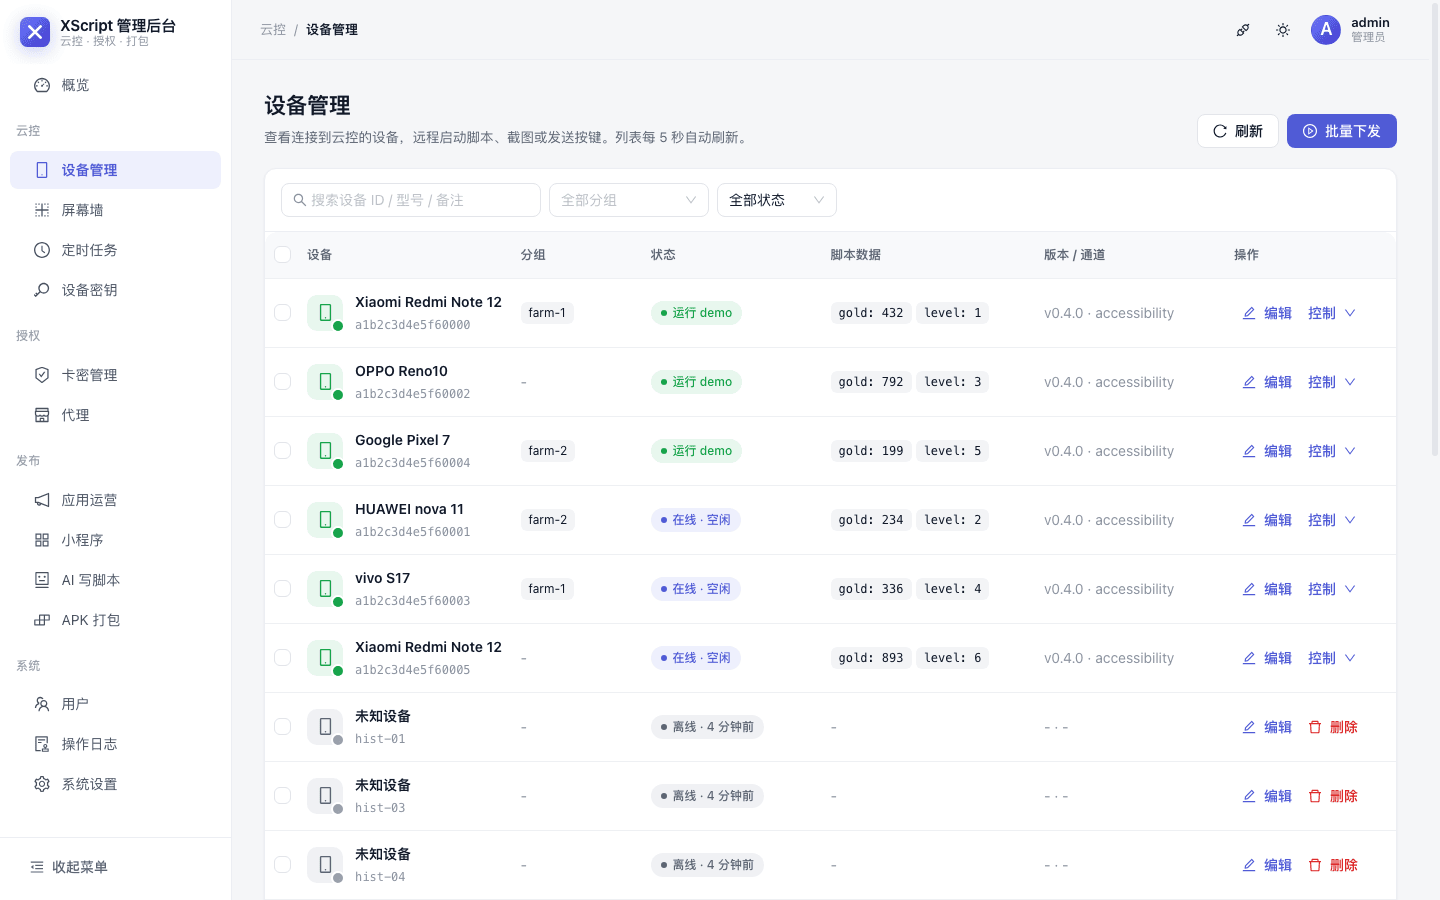
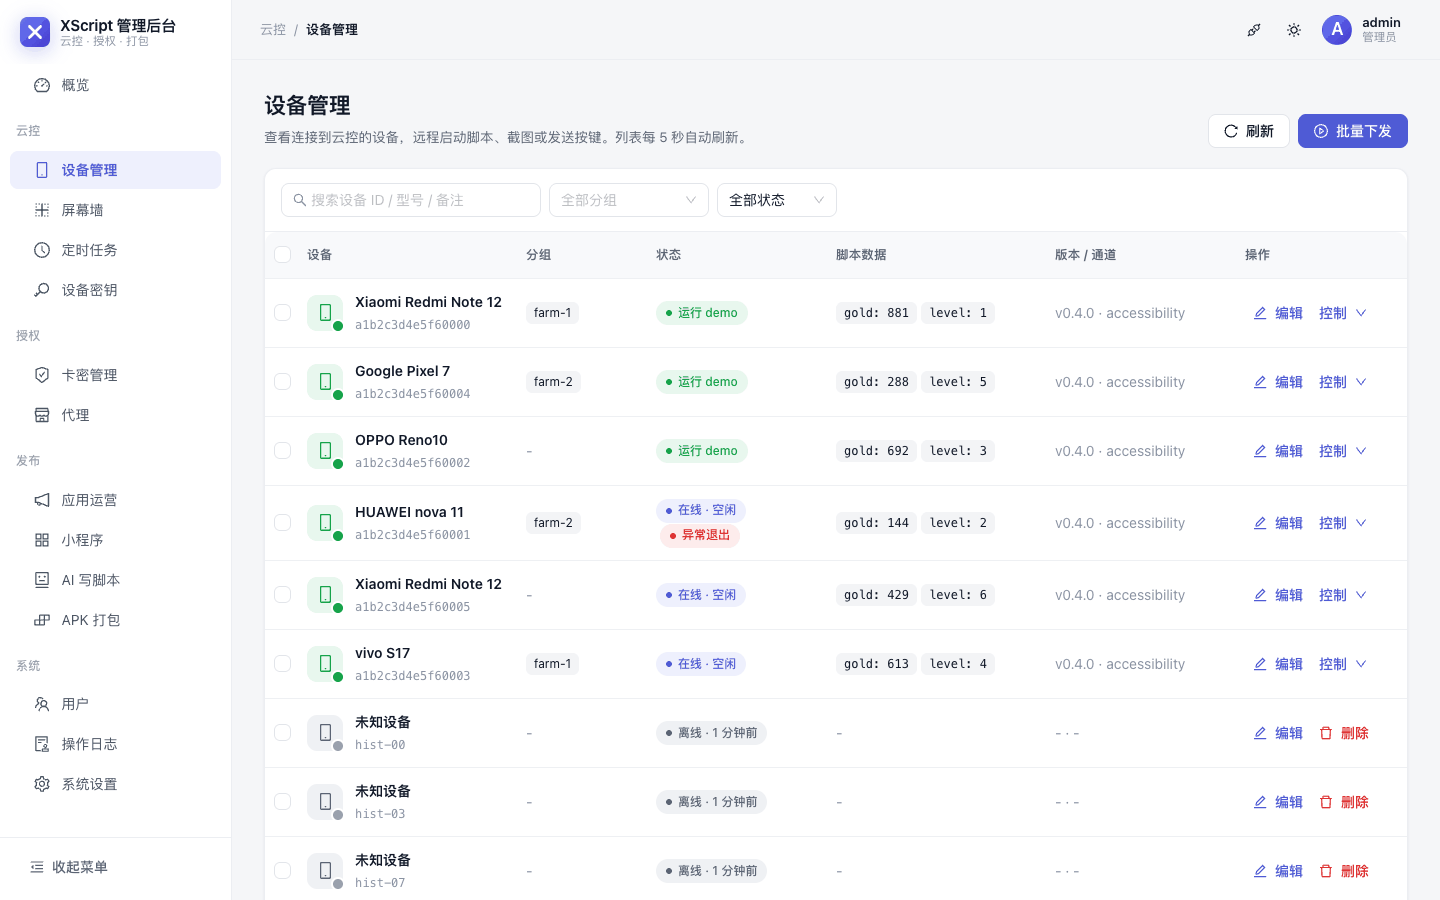
docs: describe the crashed-device marker and refresh device list screenshots

diff --git a/docs/使用手册.md b/docs/使用手册.md
@@ -435,7 +435,7 @@ yolo export model=runs/detect/train/weights/best.pt format=onnx imgsz=640
 - **实时**：通过云控直接读手机上的日志，每 2 秒刷新，红色是错误输出。设备要在线。
 - **历史**：设备每 3 秒把新日志上传到服务器，默认保存 7 天（系统设置 → 备份与存储 → 设备运行日志保留天数，0 = 不保存）。设备离线后也能看，可以按内容搜索、只看错误输出、按时间范围筛选、往前翻页和导出成文本文件。
 
-脚本异常退出时，App 会把退出码和最后 40 行日志报给后台：标签上出现红点，日志页顶部显示错误信息，配置了告警还会推送到群。
+脚本异常退出时（退出码不是 0 且不是手动停止，例如没抓住的 `screen.CaptureError`），App 会把退出码和最后 40 行日志报给后台：设备列表的状态栏多一个红色「异常退出」标签（鼠标停上去看工程、退出码和最后一行错误输出，下次开始运行时消失；桌面端云控的设备表也一样），运行日志标签上出现红点，日志页顶部显示错误信息，配置了告警（`script_crash`）还会推送到群。
 
 ### 远程操控
 

diff --git a/docs/desktop-cloud.en.md b/docs/desktop-cloud.en.md
@@ -14,7 +14,7 @@ The desktop client's **Cloud** page (sidebar, Ctrl+6) manages a self-hosted admi
 
 | Section | What it does | Role |
 | --- | --- | --- |
-| Devices | Backend device table with search, group / app / online filters and paging; selection survives paging and filtering. **Batch command** runs or stops a project on the selected devices and lists each result. | view: all; command: operator+ |
+| Devices | Backend device table with search, group / app / online filters and paging; selection survives paging and filtering. A device whose last run crashed shows a red **Crashed** badge (hover for project, exit code and the last stderr line) until its next run starts. **Batch command** runs or stops a project on the selected devices and lists each result. | view: all; command: operator+ |
 | Screens | Live thumbnails of online devices (pausable), relayed from each device's `/screen` through the backend. | operator+ |
 | Logs | Search a device's stored run logs (text and stream filters, page back; works while the device is offline). | all |
 | Tasks | Server-side scheduled tasks: enable / disable, run now, delete, create run / stop tasks (daily or interval). | view: all; edit: operator+ |
